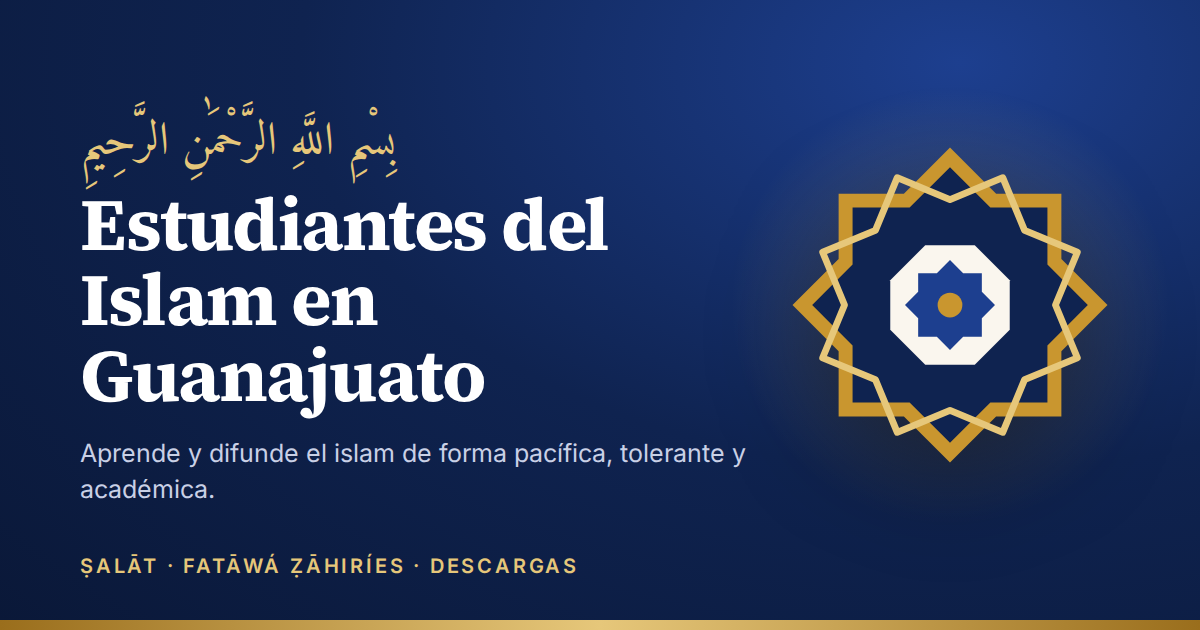
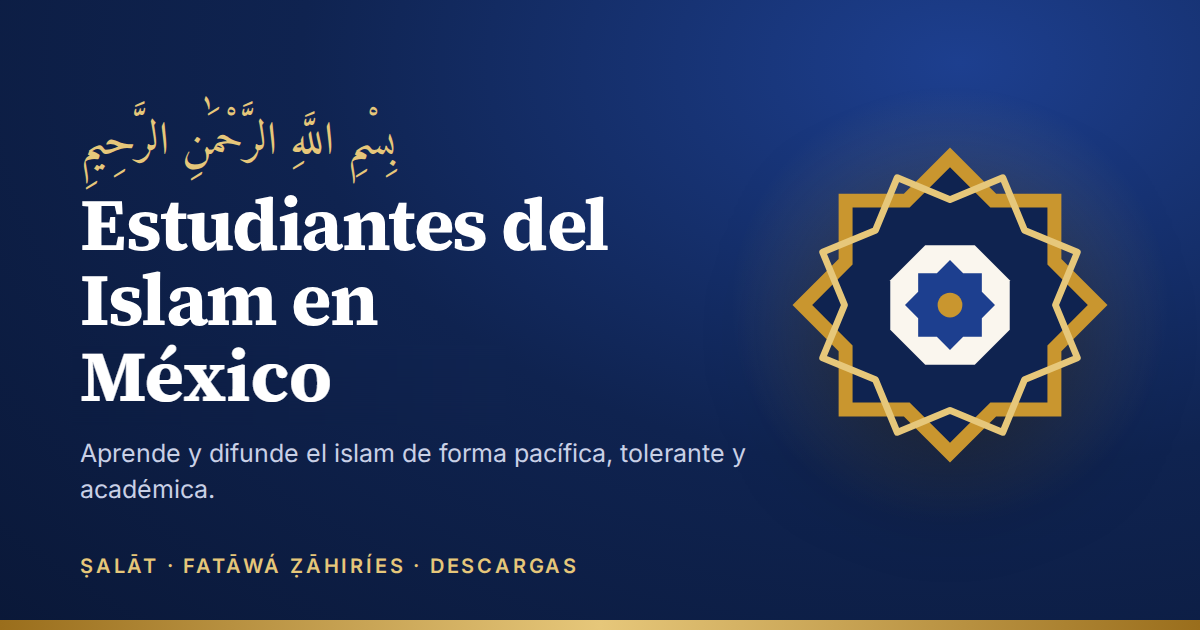
Actualiza la imagen para compartir a Estudiantes del Islam en Mexico
Cambia el texto de og-image.png y hace que /api/og muestre el dominio
configurado en SITE_URL en lugar de islamguanajuato.com.

Changed region(s): [[0.0617, 0.5429, 0.4008, 0.6635]]

diff --git a/pages/api/og.js b/pages/api/og.js
@@ -1,4 +1,5 @@
 import { ImageResponse } from "next/og";
+import { SITE_URL } from "@/constants/site";
 
 // Imagen para compartir en redes (1200×630), generada al vuelo.
 // Uso: /api/og?n=3500&t=Título de la fatwa&tema=Purificación · Wuḍūʾ
@@ -71,7 +72,7 @@ export default function handler(req) {
         </div>
 
         <div style={{ display: "flex", justifyContent: "space-between", alignItems: "center", fontSize: 24, color: "#c3cbe2" }}>
-          <span>islamguanajuato.com</span>
+          <span>{SITE_URL.replace(/^https?:\/\/(www\.)?/, "")}</span>
           <span style={{ color: "#e6c77a" }}>{limpiar("Fiqh ẓāhirī · Corán y Sunna")}</span>
         </div>
         <div style={{ position: "absolute", left: 0, right: 0, bottom: 0, height: 10, background: "linear-gradient(90deg, #9a6e1c, #e6c77a, #9a6e1c)" }} />
